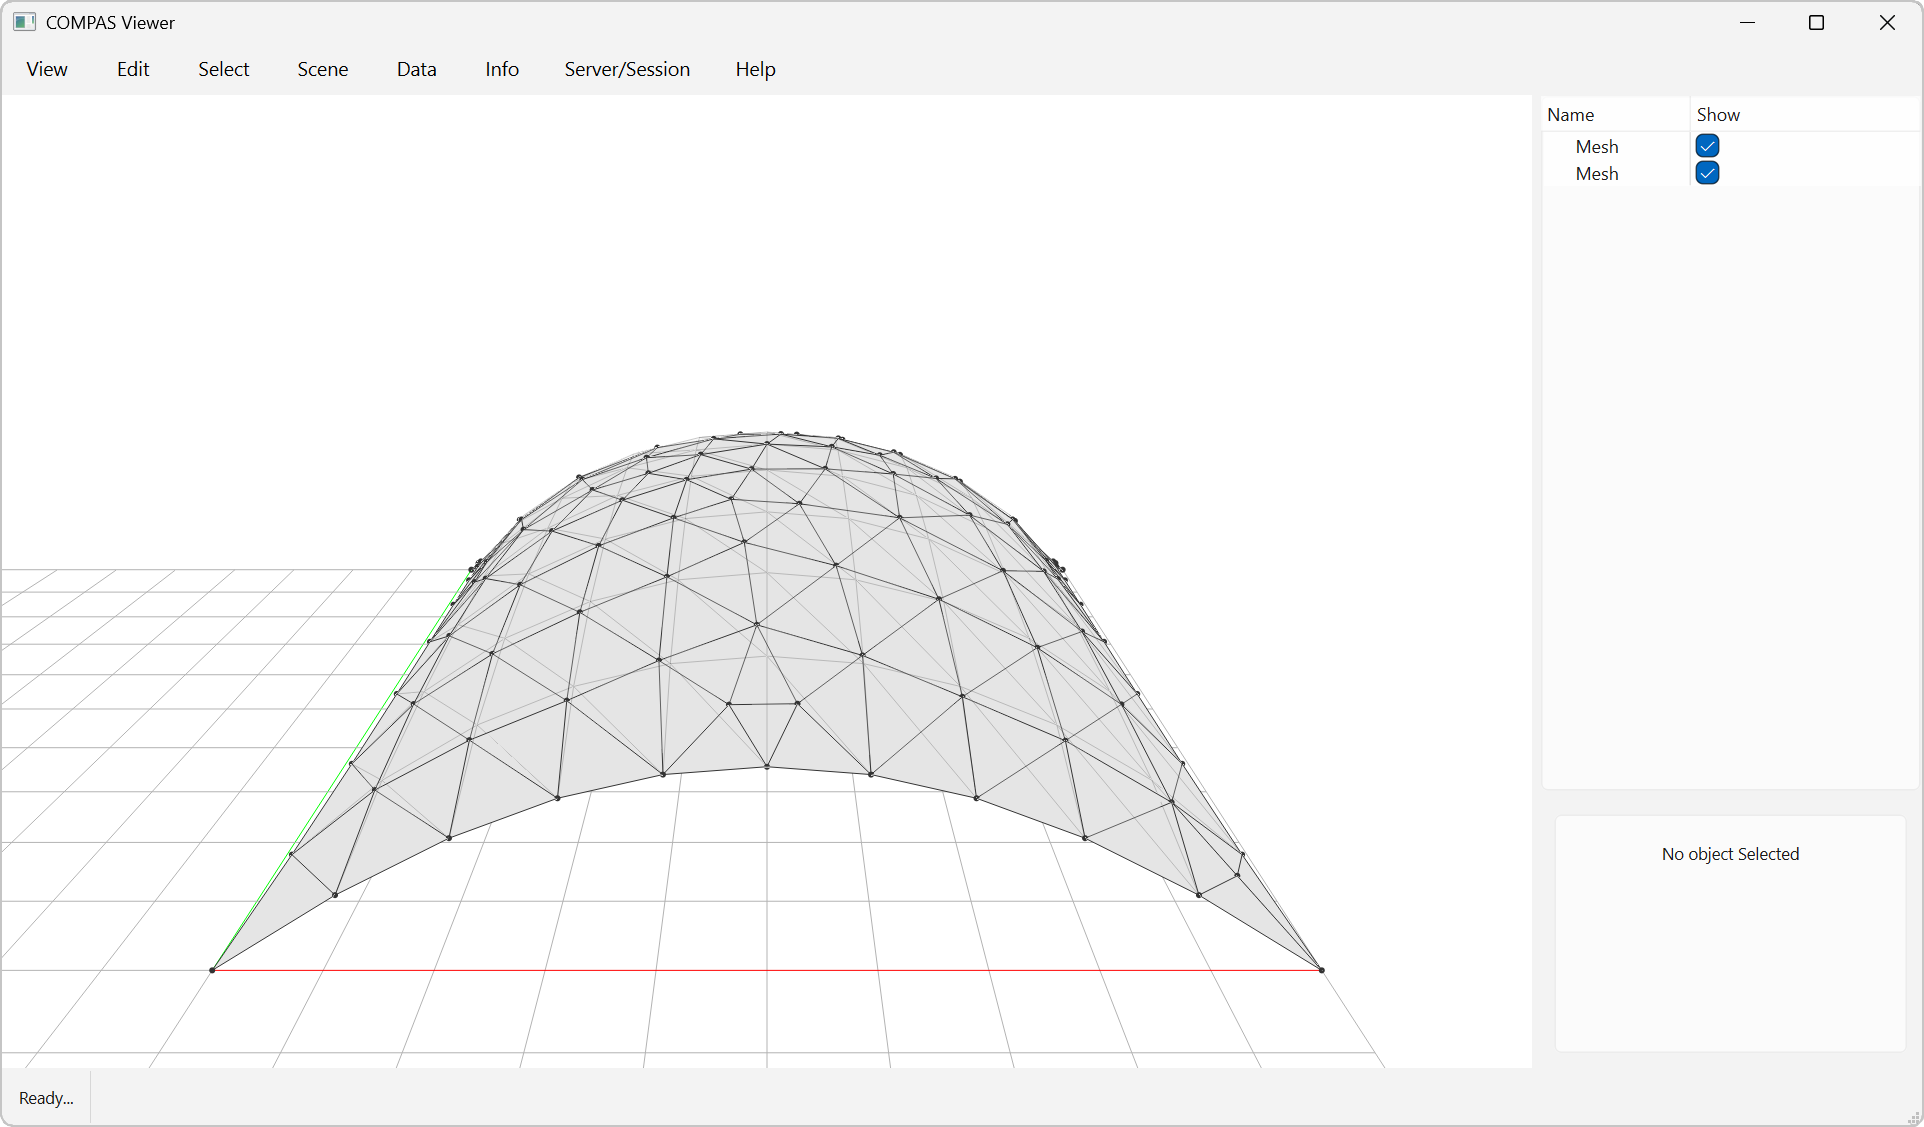
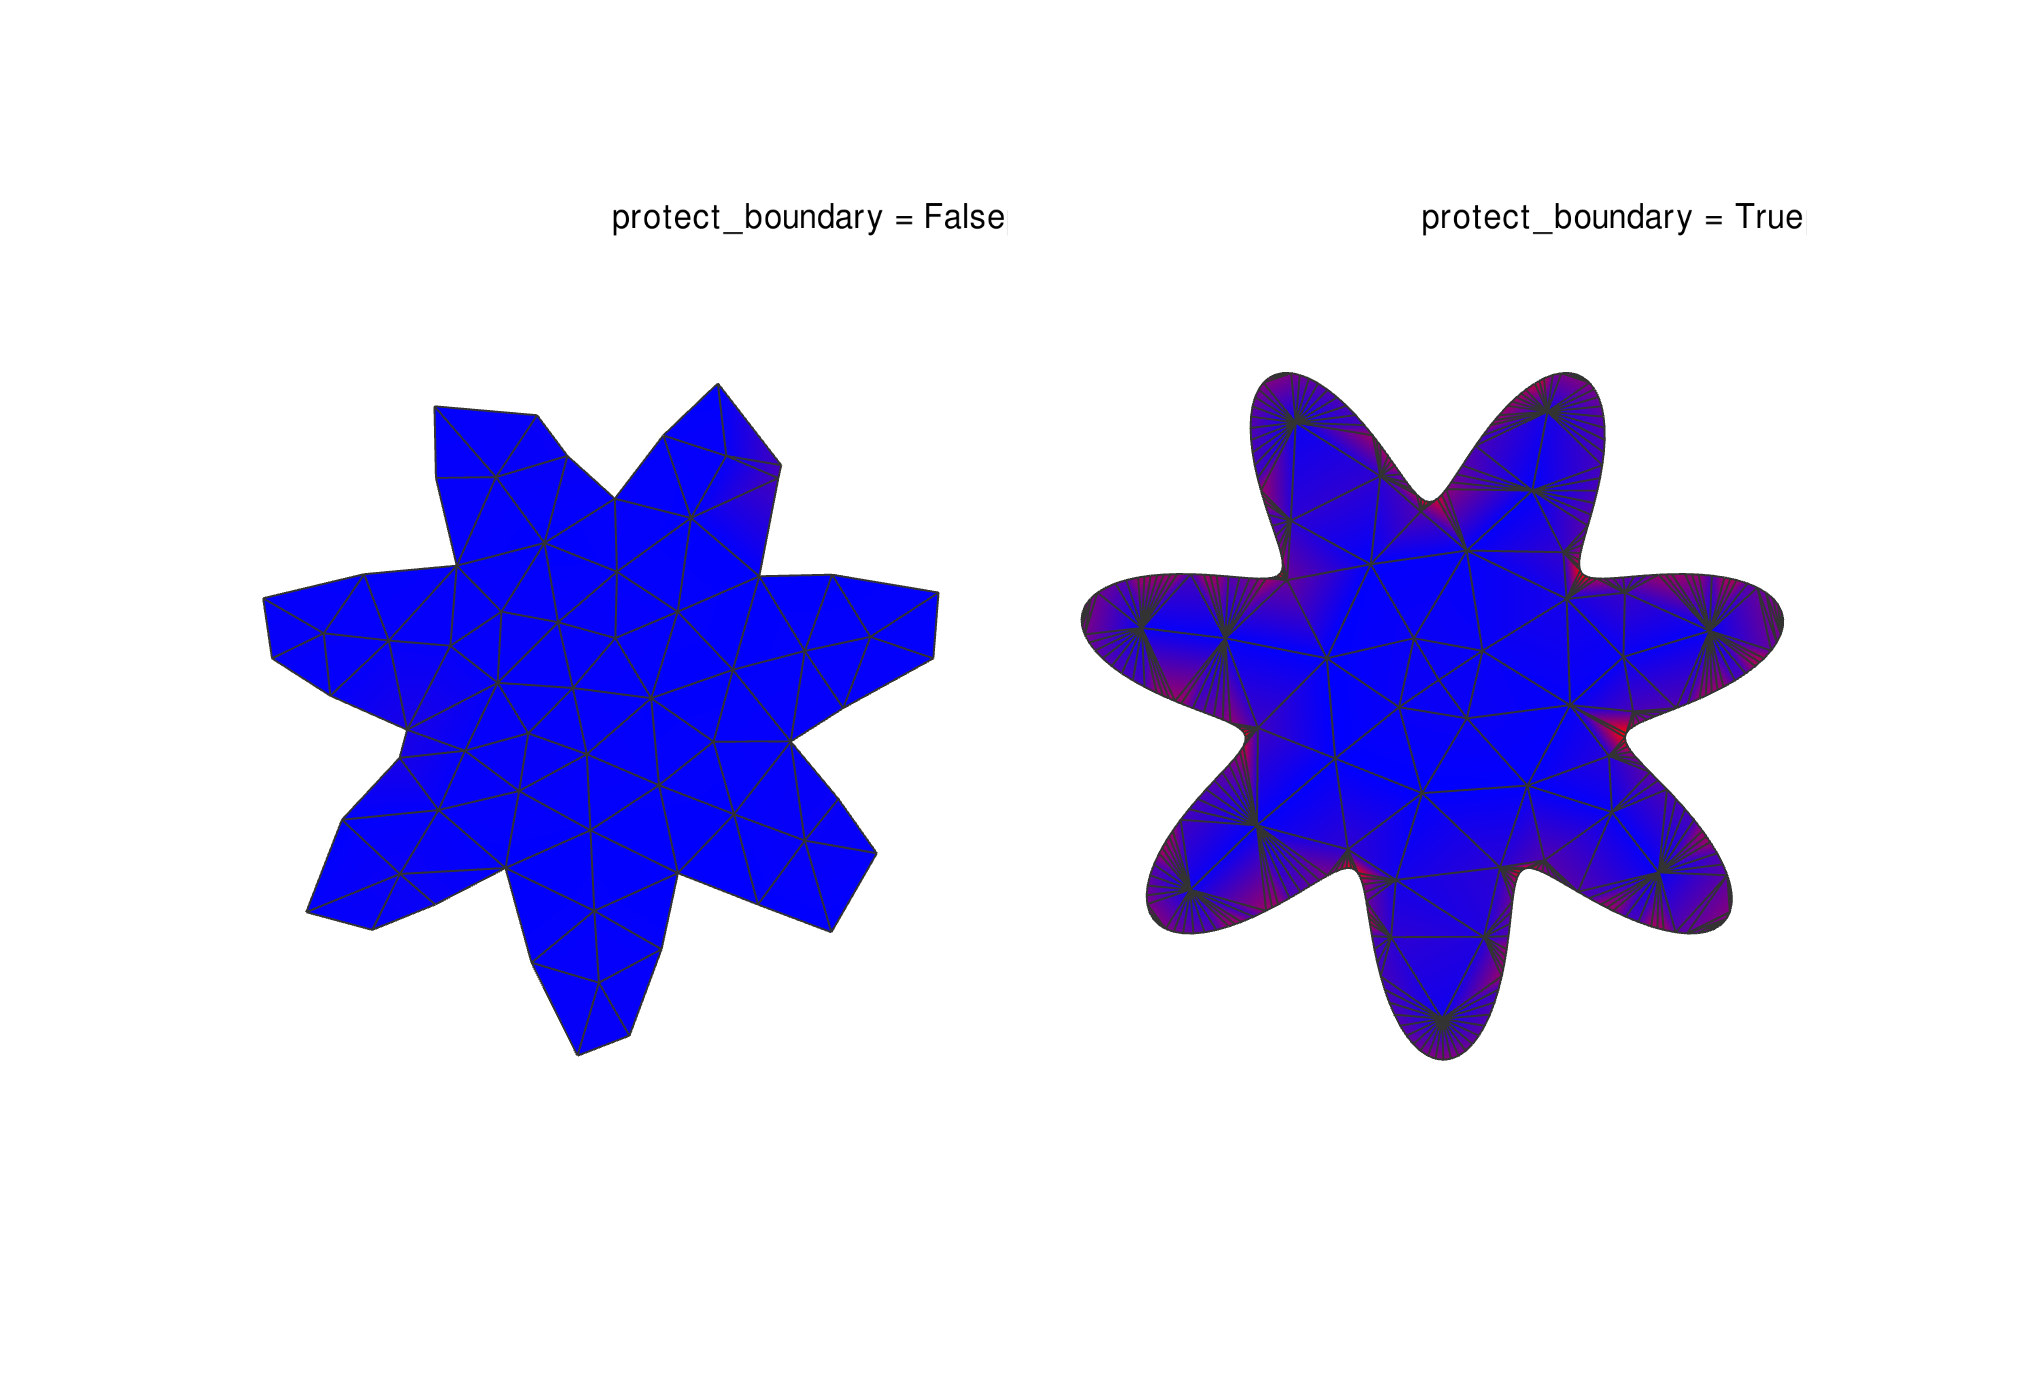
docs(meshing): example_meshing shows trimesh_remesh protect_boundary
star disk remeshed OFF vs ON, false-colored by vertex density, labelled.

diff --git a/docs/examples/example_meshing.py b/docs/examples/example_meshing.py
@@ -1,36 +1,105 @@
-from pathlib import Path
-
+import numpy as np
+from compas.colors import Color
+from compas.colors import ColorMap
 from compas.datastructures import Mesh
+from compas.geometry import Point
+from compas.geometry import Translation
+from compas.geometry import distance_point_point
 from compas_viewer import Viewer
+from compas_viewer.config import Config
+from compas_viewer.scene.tagobject import Tag
 
 from compas_cgal.meshing import trimesh_remesh
+from compas_cgal.triangulation import refined_delaunay_mesh
 
 # =============================================================================
-# Input mesh
+# Input mesh — a dense 7-lobe star disk (smooth sinusoidal rim)
+# =============================================================================
+# A star rim exaggerates what ``protect_boundary`` does: the high-curvature
+# lobes make a coarse perimeter read as visibly faceted.
+
+N = 300
+theta = np.linspace(0.0, 2.0 * np.pi, N, endpoint=False)
+radius = 5.0 + 1.5 * np.sin(7.0 * theta)
+boundary = [Point(float(r * np.cos(a)), float(r * np.sin(a)), 0.0) for r, a in zip(radius, theta)]
+
+# Triangulate the star into a dense mesh (its perimeter is finely sampled).
+V, F = refined_delaunay_mesh(boundary, maxlength=0.25, is_optimized=True)
+subdivided = (V, F)
+
+# =============================================================================
+# Remesh at a target COARSER than the perimeter sampling
 # =============================================================================
 
-input_file = Path(__file__).parent.parent.parent / "data" / "rhinovault_mesh_0.ply"
+TARGET_EDGE_LENGTH = 1.5
+ITERATIONS = 10
 
-mesh = Mesh.from_ply(input_file)
-mesh.quads_to_triangles()
+# protect_boundary=False: the dense perimeter is re-sampled to the target.
+V_off, F_off = trimesh_remesh(subdivided, TARGET_EDGE_LENGTH, ITERATIONS, protect_boundary=False)
 
-VF = mesh.to_vertices_and_faces()
+# protect_boundary=True: the perimeter density is maintained.
+V_on, F_on = trimesh_remesh(subdivided, TARGET_EDGE_LENGTH, ITERATIONS, protect_boundary=True)
 
 # =============================================================================
-# Remesh
+# Visualize — two panels side by side, false-colored by local vertex density
 # =============================================================================
 
-V1, F1 = trimesh_remesh(VF, target_edge_length=1, number_of_iterations=10)
+DX = 15.0  # x-offset between the two panels (the star is ~13 wide)
 
-remeshed = Mesh.from_vertices_and_faces(V1, F1)
 
-# ==============================================================================
-# Visualize
-# ==============================================================================
+def at(V, F, dx):
+    remeshed = Mesh.from_vertices_and_faces(V.tolist(), F.tolist())
+    remeshed.transform(Translation.from_vector([dx, 0.0, 0.0]))
+    return remeshed
 
-viewer = Viewer(width=1600, height=900)
 
-viewer.scene.add(mesh, show_points=False, opacity=0.25)
-viewer.scene.add(remeshed, show_points=True)
+def vertex_density(mesh):
+    """Local density = 1 / shortest incident edge (nearest-neighbour spacing).
+
+    Using the shortest edge (not the mean) keeps a dense-rim vertex hot even
+    where it also touches long interior edges — so the maintained perimeter
+    reads as a crisp band rather than blending into the coarse interior.
+    """
+    density = {}
+    for v in mesh.vertices():
+        p = mesh.vertex_coordinates(v)
+        lengths = [distance_point_point(p, mesh.vertex_coordinates(n)) for n in mesh.vertex_neighbors(v)]
+        density[v] = 1.0 / min(lengths) if lengths else 0.0
+    return density
+
+
+mesh_off = at(V_off, F_off, 0.0)
+mesh_on = at(V_on, F_on, DX)
+
+density_off = vertex_density(mesh_off)
+density_on = vertex_density(mesh_on)
+
+# Shared color scale across BOTH meshes so the maintained perimeter reads as
+# denser than anything on the unprotected star.
+all_density = list(density_off.values()) + list(density_on.values())
+dmin, dmax = min(all_density), max(all_density)
+cmap = ColorMap.from_two_colors(Color.blue(), Color.red())
+
+
+def density_colors(mesh, density):
+    return {v: cmap(density[v], minval=dmin, maxval=dmax) for v in mesh.vertices()}
+
+
+config = Config()
+config.renderer.show_grid = False  # clean background — no grid/axes distraction
+config.camera.target = [DX / 2.0, 0.0, 0.0]
+config.camera.position = [DX / 2.0, -3.0, 30.0]  # near top-down
+
+viewer = Viewer(config=config)
+
+# Left: protect_boundary=False — uniformly coarse (cold everywhere).
+viewer.scene.add(mesh_off, show_points=False, use_vertexcolors=True, vertexcolor=density_colors(mesh_off, density_off))
+
+# Right: protect_boundary=True — a hot band of maintained density hugs the rim.
+viewer.scene.add(mesh_on, show_points=False, use_vertexcolors=True, vertexcolor=density_colors(mesh_on, density_on))
+
+# Label each panel so the difference is explicit in the viewer.
+viewer.scene.add(Tag("protect_boundary = False", (0.0, 8.5, 0.0), height=34))
+viewer.scene.add(Tag("protect_boundary = True", (DX, 8.5, 0.0), height=34))
 
 viewer.show()

diff --git a/docs/examples/example_meshing.md b/docs/examples/example_meshing.md
@@ -2,14 +2,23 @@
 
 ![Mesh Remeshing](../assets/images/example_meshing.png)
 
-This example demonstrates how to remesh a triangle mesh using COMPAS CGAL.
+This example demonstrates `trimesh_remesh` and its `protect_boundary` option using COMPAS CGAL.
+
+A dense 7-lobe star disk (triangulated with `refined_delaunay_mesh`) is remeshed to a coarse target edge length two ways:
+
+* **Left — `protect_boundary=False`**: boundary edges are re-sampled to the target, so the finely sampled star rim collapses to a coarse, faceted polygon (~37 perimeter vertices).
+* **Right — `protect_boundary=True`**: boundary edges are constrained, so the perimeter density is maintained — the rim stays a smooth, finely sampled star (~330 perimeter vertices) while the interior is coarsened.
+
+Both meshes are false-colored by local vertex density (blue = coarse, red = dense) on a shared scale, so the maintained perimeter reads as a hot band on the right.
+
+Use `protect_boundary` when an open mesh's border curve must survive remeshing verbatim. The companion parameter `protect_sharp_edges_angle_deg` similarly constrains interior feature edges whose dihedral angle exceeds a threshold.
 
 Key Features:
 
-* Loading PLY mesh files
-* Mesh transformation and centering
-* Remeshing with target edge length
-* Side-by-side visualization of original and remeshed models
+* Remeshing with a target edge length via `trimesh_remesh`
+* Preserving perimeter sampling with `protect_boundary`
+* Generating the input star with `refined_delaunay_mesh`
+* Side-by-side visualization of the two results
 
 ```python
 ---8<--- "docs/examples/example_meshing.py"
